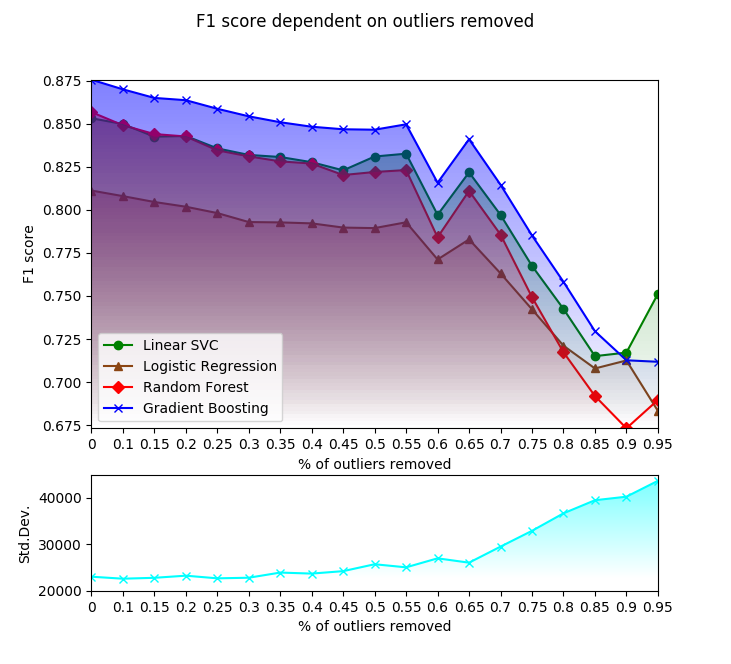
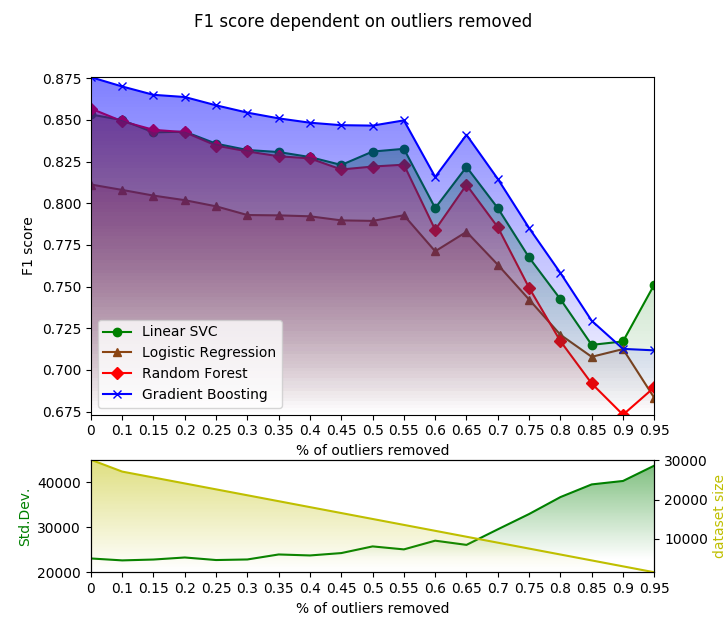
better outlier plots

diff --git a/src/plots/plotting.py b/src/plots/plotting.py
@@ -11,13 +11,13 @@ MODE = 'outliers'
 
 
 # OUTLIER_TARGET = ''
-# OUTLIER_TARGET = 'outliers/'
-OUTLIER_TARGET = 'random_comparison/'
+OUTLIER_TARGET = 'outliers/'
+# OUTLIER_TARGET = 'random_comparison/'
 # OUTLIER_TARGET = 'original/'
 # OUTLIER_TARGET = 'outliers_removed/'
 
-# OUTLIER_PREFIX = 'adults_outliers_removed_'
-OUTLIER_PREFIX = 'adults_random_deletion_'
+OUTLIER_PREFIX = 'adults_outliers_removed_'
+# OUTLIER_PREFIX = 'adults_random_deletion_'
 
 # TARGET = 'education_num/'
 # TARGET = 'marital_status/'
@@ -142,22 +142,30 @@ def plotOutlierResults(results):
 
   ### Collect Std. Deviation from data_stats
   ### HACK - refactor out into own function !!!
+  sizes = []
   std_devs = []
   with open(OUTLIERS_DIRECTORY + "/data_stats.csv", 'r') as f:
     next(f)
     stat_lines = [line.split(',') for line in f]
     for idx, line in enumerate(stat_lines):
-      std_devs.append(line[2])
+      sizes.append(float(line[1]))
+      std_devs.append(float(line[2]))
       # print( "line{0} = {1}".format(idx, line) )
 
-  print( std_devs )
+  print( "Std.Dev.: " + str(std_devs) )
   min_std = min(std_devs)
   max_std = max(std_devs)
-  print( "Min Std: " + min_std )
-  print( "Max Std: " + max_std )
+  print( "Min Std: %s" %(min_std) )
+  print( "Max Std: %s" %(max_std) )
+
+  print( "Sizes: " + str(sizes) )
+  min_size = min(sizes)
+  max_size = max(sizes)
+  print( "Min Size: %s" %(min_size) )
+  print( "Max Size: %s" %(max_size) )
 
   ### START PLOTTING ###
-  fig, (ax_top, ax_bottom) = plt.subplots(2, 1, gridspec_kw={'height_ratios': [3, 1]})
+  fig, (ax_top, ax_bottom_std) = plt.subplots(2, 1, gridspec_kw={'height_ratios': [3, 1]})
   fig.patch.set_facecolor('white')
   # ax.set_axis_bgcolor((116/256.0, 139/256.0, 197/256.0))
   # ax.set_axis_bgcolor((255/256.0, 199/256.0, 0/256.0))
@@ -198,17 +206,29 @@ def plotOutlierResults(results):
                 y_min=float(min_std),
                 y_max=float(max_std),
                 # zfunc=plots_blur.zfunc,
-                ax=ax_bottom,
-                marker=markers[idx],
-                color='cyan',
+                ax=ax_bottom_std,
+                # marker=markers[idx],
+                color='green',
                 label='standard deviation')
   # ax_bottom.plot(std_devs)
 
-  ax_bottom.axis([0, max(x), 20000, 45000])
-  ax_bottom.locator_params(nbins=18, axis='x')
-  ax_bottom.set_xticklabels(x_labels)
-  ax_bottom.set_xlabel('% of ' + target_label + ' removed')
-  ax_bottom.set_ylabel('Std.Dev.')
+  ax_bottom_std.axis([0, max(x), 20000, 45000])
+  ax_bottom_std.locator_params(nbins=18, axis='x')
+  ax_bottom_std.set_xticklabels(x_labels)
+  ax_bottom_std.set_xlabel('% of ' + target_label + ' removed')
+  ax_bottom_std.set_ylabel('Std.Dev.', color="g")
+
+  ax_bottom_size = ax_bottom_std.twinx()
+  gradient_fill(np.array(x),
+                np.array(list(map(float, sizes))),
+                y_min=float(min_size),
+                y_max=float(max_size),
+                # zfunc=plots_blur.zfunc,
+                ax=ax_bottom_size,
+                # marker=markers[idx],
+                color='y',
+                label='dataset size')
+  ax_bottom_size.set_ylabel('dataset size', color='y')
 
   # plt.tight_layout()
   plt.show()
